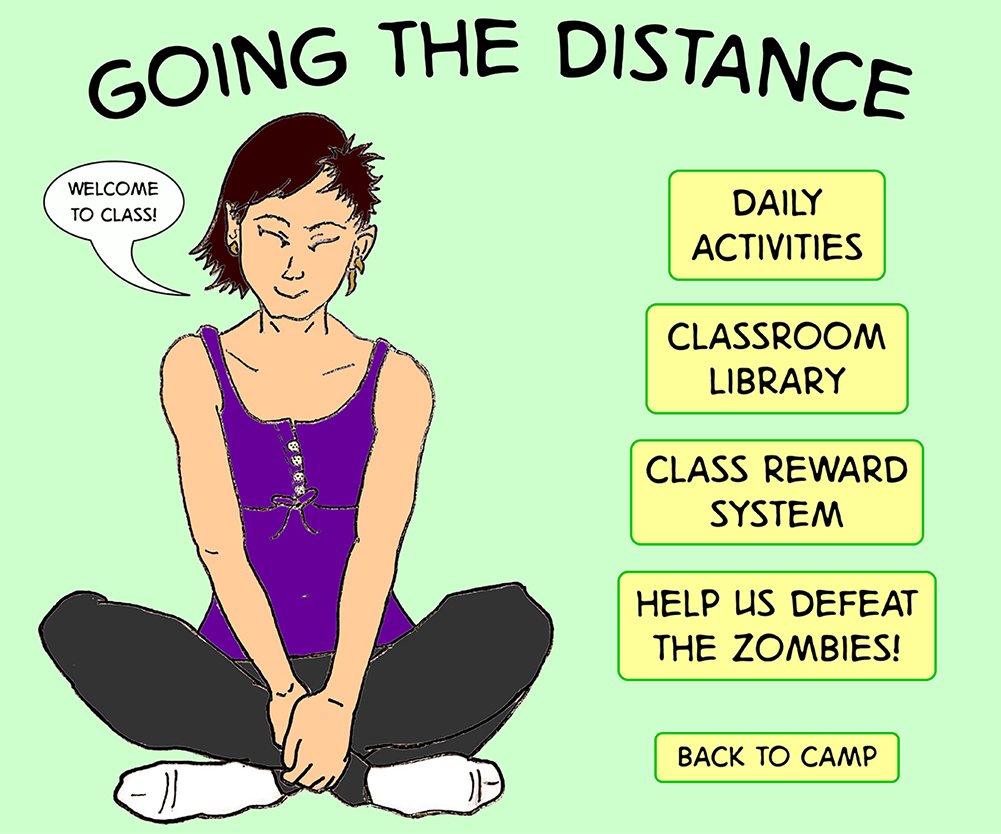
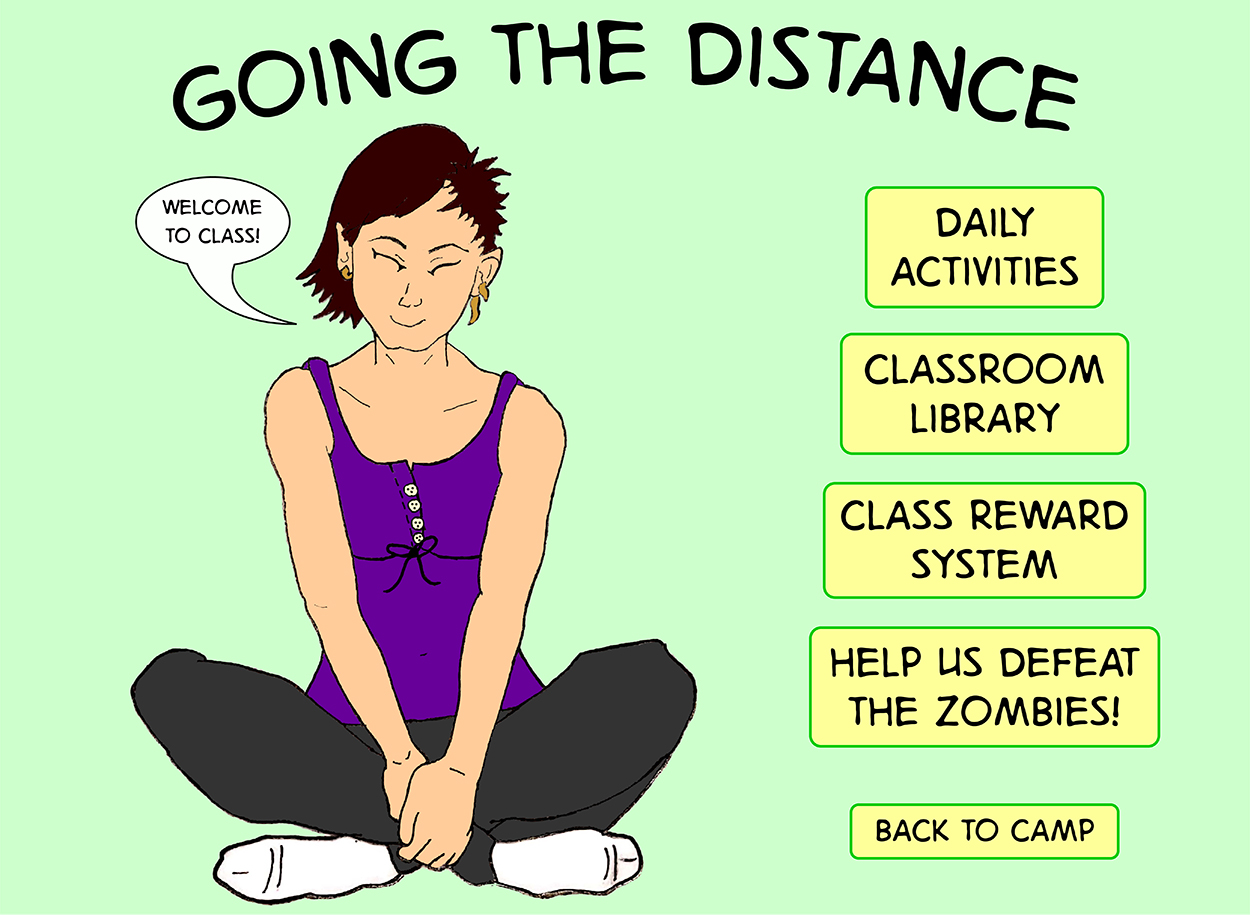
tauntaun classroom main page

diff --git a/classroom_tauntaun_main.html b/classroom_tauntaun_main.html
@@ -1,24 +1,24 @@
 <html>
 
 <head>
-<title>Tauntaun's Classroom</title>
+<title>Tauntaun's Classroom: Main</title>
 <script type="text/javascript" src="/js/prototype.js"></script>
 <script type="text/javascript" src="/js/scriptaculous.js?load=effects"></script>
 <script type="text/javascript" src="/js/lightwindow.js"></script>
 <link rel="stylesheet" href="/css/lightwindow.css" type="text/css" media="screen" />
 </head>
 
-<body style="background-color:#ddd9c8;">
+<body style="background-color:#CCFFCC;">
 <!-- Image Map Generated by http://www.image-map.net/ -->
-<center><img src="assets/maps/Classroom_tauntaun_main.jpg" usemap="#image-map"></center>
+<center><img src="assets/maps/classroom_tauntaun_main.jpg" usemap="#image-map"></center>
 
 <map name="image-map">
-    <area target="" alt="Daily Activities" title="Daily Activities" href="" coords="667,170,885,279" shape="rect">
-    <area target="" alt="Library" title="Library" href="" coords="644,303,912,414" shape="rect">
-    <area target="" alt="Rewards" title="Rewards" href="" coords="632,439,923,546" shape="rect">
-    <area target="" alt="Zombie Interactive" title="Zombie Interactive" href="" coords="618,570,935,679" shape="rect">
-    <area target="" alt="Back to Camp" title="Back to Camp" href="" coords="653,732,899,784" shape="rect">
-    <area target="" alt="About Tauntaun" title="About Tauntaun" href="http://www.danbeekim.org/about-me/" class="lightwindow" params="lightwindow_width=1000,lightwindow_height=600" coords="263,121,233,152,192,248,198,327,171,343,160,380,200,569,182,620,80,589,39,629,132,755,109,802,163,826,275,806,301,787,348,808,413,820,471,813,504,787,530,684,553,620,515,583,445,589,412,618,399,568,414,505,432,398,426,368,394,344,353,289,379,231,386,161,352,131,326,113,304,112" shape="poly">
+    <area target="" alt="Daily Activities" title="Daily Activities" href="https://aicl2020.github.io/classroom_tauntaun_dailyActivities.html" coords="860,183,1108,307" shape="rect">
+    <area target="" alt="Library" title="Library" href="https://aicl2020.github.io/classroom_tauntaun_library.html" coords="841,332,1127,454" shape="rect">
+    <area target="" alt="Rewards" title="Rewards" href="https://aicl2020.github.io/classroom_tauntaun_rewards.html" coords="823,482,1147,598" shape="rect">
+    <area target="" alt="Zombies" title="Zombies" href="https://aicl2020.github.io/classroom_tauntaun_zombies.html" coords="806,627,1163,745" shape="rect">
+    <area target="" alt="Back to Camp" title="Back to Camp" href="https://aicl2020.github.io/all_classrooms.html" coords="849,799,1119,858" shape="rect">
+    <area target="_blank" alt="About Tauntaun" title="About Tauntaun" href="http://www.danbeekim.org/about-me/" coords="420,117,366,143,337,168,319,238,292,280,314,292,310,315,355,328,372,340,330,358,308,356,284,366,266,398,262,439,282,485,284,541,300,602,321,653,303,686,279,671,177,646,129,682,134,718,166,757,231,820,243,842,221,847,213,874,240,900,270,905,325,902,369,885,385,883,405,873,428,863,440,870,471,883,536,896,604,894,641,866,633,834,632,811,671,751,693,709,692,673,656,639,579,649,545,680,520,647,547,555,567,438,565,415,541,387,506,368,479,352,473,323,486,299,503,248,510,193,511,175,477,146,448,125" shape="poly">
 </map>
 </body>
 
